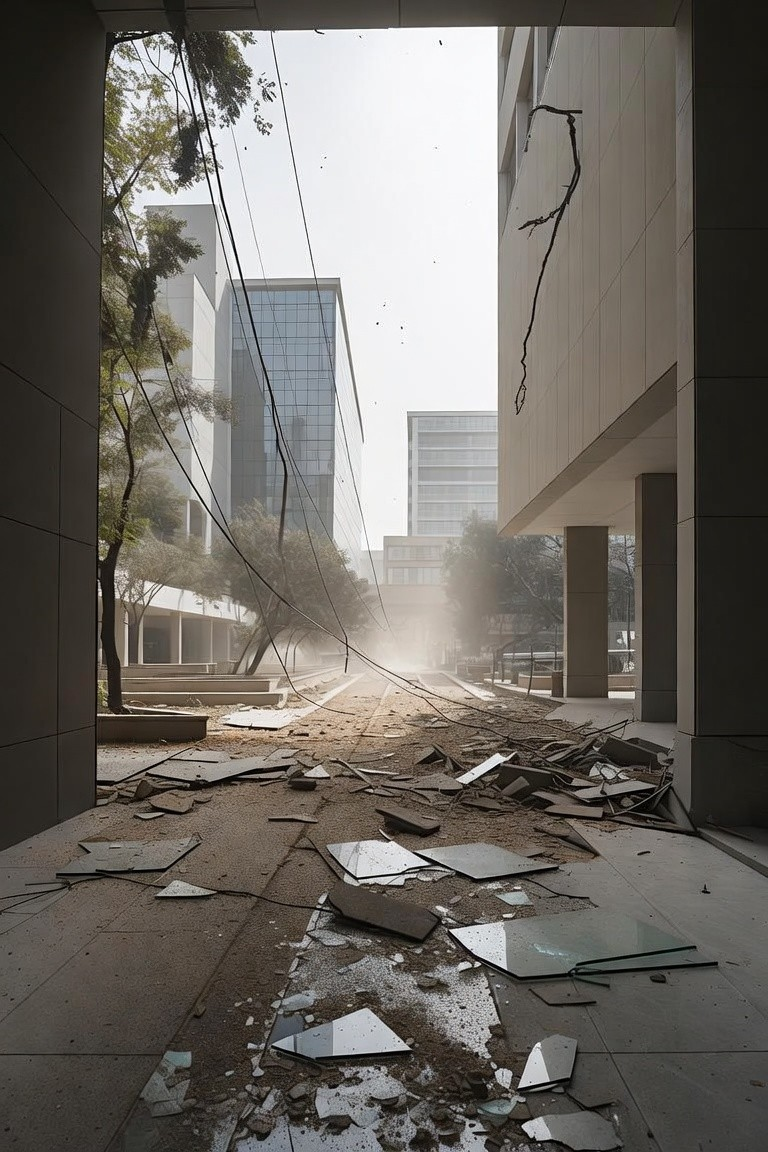
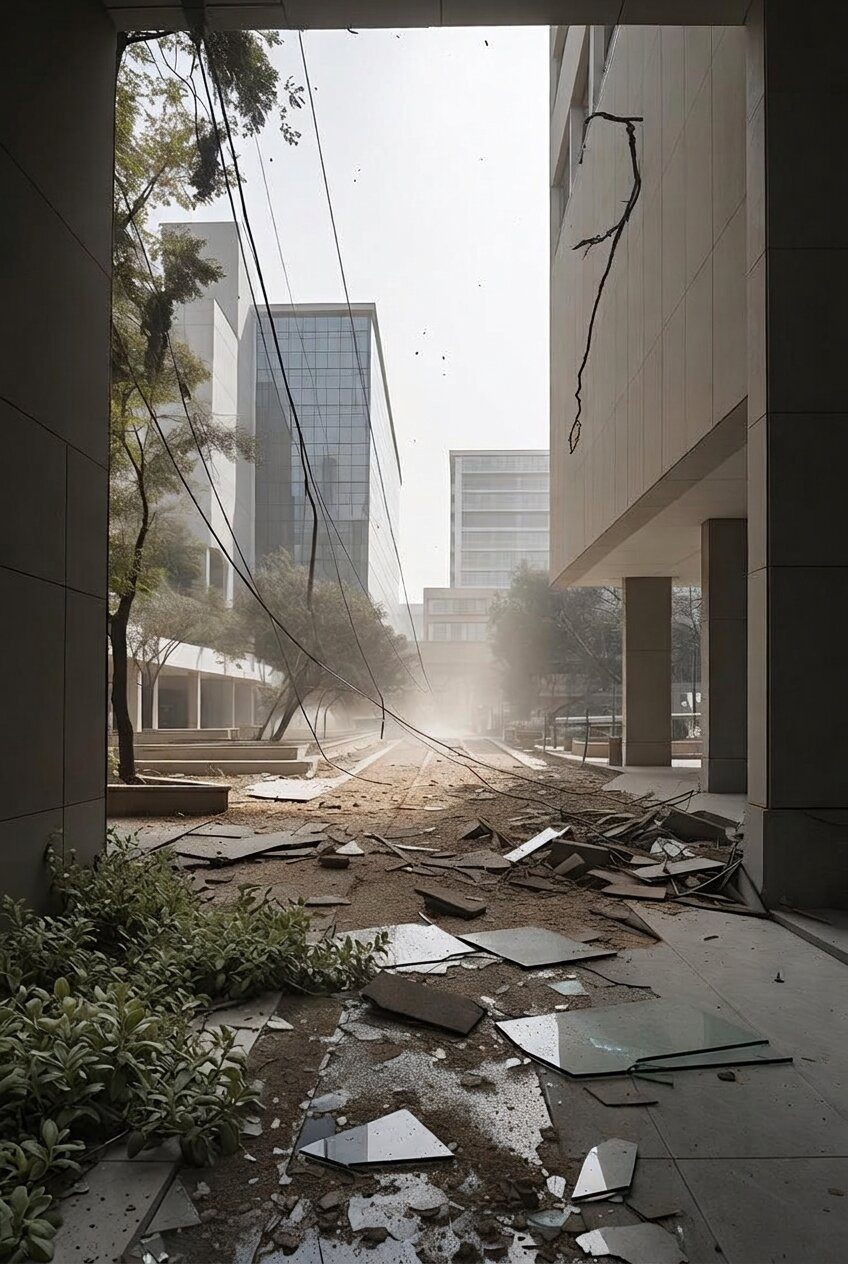
תיקונים שני 13:30 תמר

diff --git a/js/app.js b/js/app.js
@@ -295,7 +295,7 @@ const SCENARIOS = [
       },
     ],
   },
- 
+
   /* ===== תרחיש 4 — מעבדה: חומרים מסוכנים (images/scenario-4.jpg) ===== */
   {
     id: "lab-hazmat",
@@ -331,7 +331,7 @@ const SCENARIOS = [
           "אל תיגעו בנוזל ואל תדרכו בו. הימנעו מנשימת האדים.",
           "התרחקו נגד כיוון הרוח או החוצה, והרחיקו אנשים מהאזור.",
           "דווחו לכבאות והצלה (102) וציינו מה ידוע על החומר.",
-          "מי שנחשף: הרחיקו אותו לאוויר צח, הסירו בגדים מזוהמים ושטפו במים. הזעיקו מד\"א (101).",
+          'מי שנחשף: הרחיקו אותו לאוויר צח, הסירו בגדים מזוהמים ושטפו במים. הזעיקו מד"א (101).',
         ],
       },
       {
@@ -361,7 +361,7 @@ const SCENARIOS = [
         actions: [
           "אל תלכו יחפים או בנעליים פתוחות.",
           "אל תנקו בידיים. נקו רק לאחר אישור האזור, בכפפות ובציוד מגן.",
-          "טפלו בחתכים והזעיקו מד\"א (101) לפצועים.",
+          'טפלו בחתכים והזעיקו מד"א (101) לפצועים.',
           "סמנו את האזור והפנו אנשים לציר עוקף.",
         ],
       },
@@ -381,7 +381,7 @@ const SCENARIOS = [
       },
     ],
   },
- 
+
   /* ===== תרחיש 5 — מסדרון פגוע (images/scenario-5.jpg) ===== */
   {
     id: "damaged-corridor",
@@ -417,7 +417,7 @@ const SCENARIOS = [
           "התרחקו מהחלון ומהזכוכית הסדוקה.",
           "אל תיגעו בזכוכית ואל תנסו להסיר אותה.",
           "סמנו גבול ביטחון והרחיקו אנשים מהצד של החלון.",
-          "דווחו לצוות התחזוקה. פצועים: מד\"א (101).",
+          'דווחו לצוות התחזוקה. פצועים: מד"א (101).',
         ],
       },
       {
@@ -434,7 +434,7 @@ const SCENARIOS = [
           "אל תלכו יחפים או בסנדלים.",
           "נקו רק לאחר שהאזור אושר, בנעליים סגורות ובכפפות.",
           "הניחו מסלול עוקף מסומן.",
-          "פצועים: הזעיקו מד\"א (101).",
+          'פצועים: הזעיקו מד"א (101).',
         ],
       },
       {
@@ -467,7 +467,7 @@ const SCENARIOS = [
       },
     ],
   },
- 
+
   /* ===== תרחיש 6 — גרם מדרגות פגוע (images/scenario-6.jpg) ===== */
   {
     id: "damaged-stairs",
@@ -552,7 +552,6 @@ const SCENARIOS = [
       },
     ],
   },
- 
 ];
 
 /* =====================================================================
@@ -861,7 +860,6 @@ const SCENARIOS = [
         '<div class="sec"><h3>מה עושים?</h3><ul>' +
         h.actions.map((a) => "<li>" + esc(a) + "</li>").join("") +
         "</ul></div>" +
-        '<div class="src">בהתאם להנחיות פיקוד העורף</div>' +
         (completed
           ? '<div class="okline">✓ זיהיתם את כל הסכנות בתרחיש הזה!</div>'
           : "") +
@@ -920,13 +918,12 @@ const SCENARIOS = [
             totalFound +
             " מתוך " +
             totalAll +
-            " סכנות — אפשר לחזור ולהשלים") +
+            " סכנות - אפשר לחזור ולהשלים") +
         "</div>" +
         '<div style="display:flex;flex-direction:column;gap:10px">' +
         '<div class="srow hd"><span>תרחיש</span><span>סכנות</span><span>זמן</span><span>רמזים</span><span>לחיצות שגויות</span></div>' +
         rows +
         "</div>" +
-        '<div class="emerg"><b>מספרי חירום:</b> מד"א 101 · כב"א 102 · משטרה 100 · חברת החשמל 103 · פיקוד העורף 104</div>' +
         '<div class="btnrow">' +
         '<button id="sBack" class="navbtn ghost" type="button"><span>חזרה לתרחישים</span></button>' +
         '<button id="sReset" class="navbtn primary" type="button"><span>התחלה מחדש</span></button>' +
@@ -1022,14 +1019,18 @@ const SCENARIOS = [
   addEventListener("contextmenu", (e) => e.preventDefault());
   addEventListener("dblclick", (e) => e.preventDefault());
 
-    /* מסך מלא */
+  /* מסך מלא */
   const fsBtn = $("#fsBtn"),
     fsRoot = document.documentElement;
-  const isFs = () => document.fullscreenElement || document.webkitFullscreenElement;
-  if (!(fsRoot.requestFullscreen || fsRoot.webkitRequestFullscreen)) fsBtn.style.display = "none";
+  const isFs = () =>
+    document.fullscreenElement || document.webkitFullscreenElement;
+  if (!(fsRoot.requestFullscreen || fsRoot.webkitRequestFullscreen))
+    fsBtn.style.display = "none";
   fsBtn.addEventListener("click", () => {
-    if (isFs()) (document.exitFullscreen || document.webkitExitFullscreen).call(document);
-    else (fsRoot.requestFullscreen || fsRoot.webkitRequestFullscreen).call(fsRoot);
+    if (isFs())
+      (document.exitFullscreen || document.webkitExitFullscreen).call(document);
+    else
+      (fsRoot.requestFullscreen || fsRoot.webkitRequestFullscreen).call(fsRoot);
   });
   const syncFs = () => fsBtn.classList.toggle("on", !!isFs());
   document.addEventListener("fullscreenchange", syncFs);

diff --git a/index.html b/index.html
@@ -19,7 +19,7 @@
     </div>
   </header>
 
-  <p class="sub">לאחר רעידת אדמה עלולות להיווצר סכנות שונות. <span class="yl">לחצו על הסכנות שאתם מזהים בתמונה.</span></p>
+  <p id="second-title-screen" class="sub">לחצו על הסכנות שאתם מזהים בתמונה</p>
 
   <section id="controls">
     <button id="hintBtn" type="button" aria-label="רמז">

diff --git a/css/style.css b/css/style.css
@@ -169,3 +169,7 @@ h1{font-family:var(--font-head);font-weight:700;font-size:112px;line-height:.95;
 .debug .spot{border:3px dashed cyan}
 .debug .spot::before{content:"";position:absolute;left:50%;top:50%;width:135%;height:135%;
   transform:translate(-50%,-50%);border:2px dotted yellow;border-radius:50%}
+
+  #second-title-screen{
+    text-align: center;
+  }
